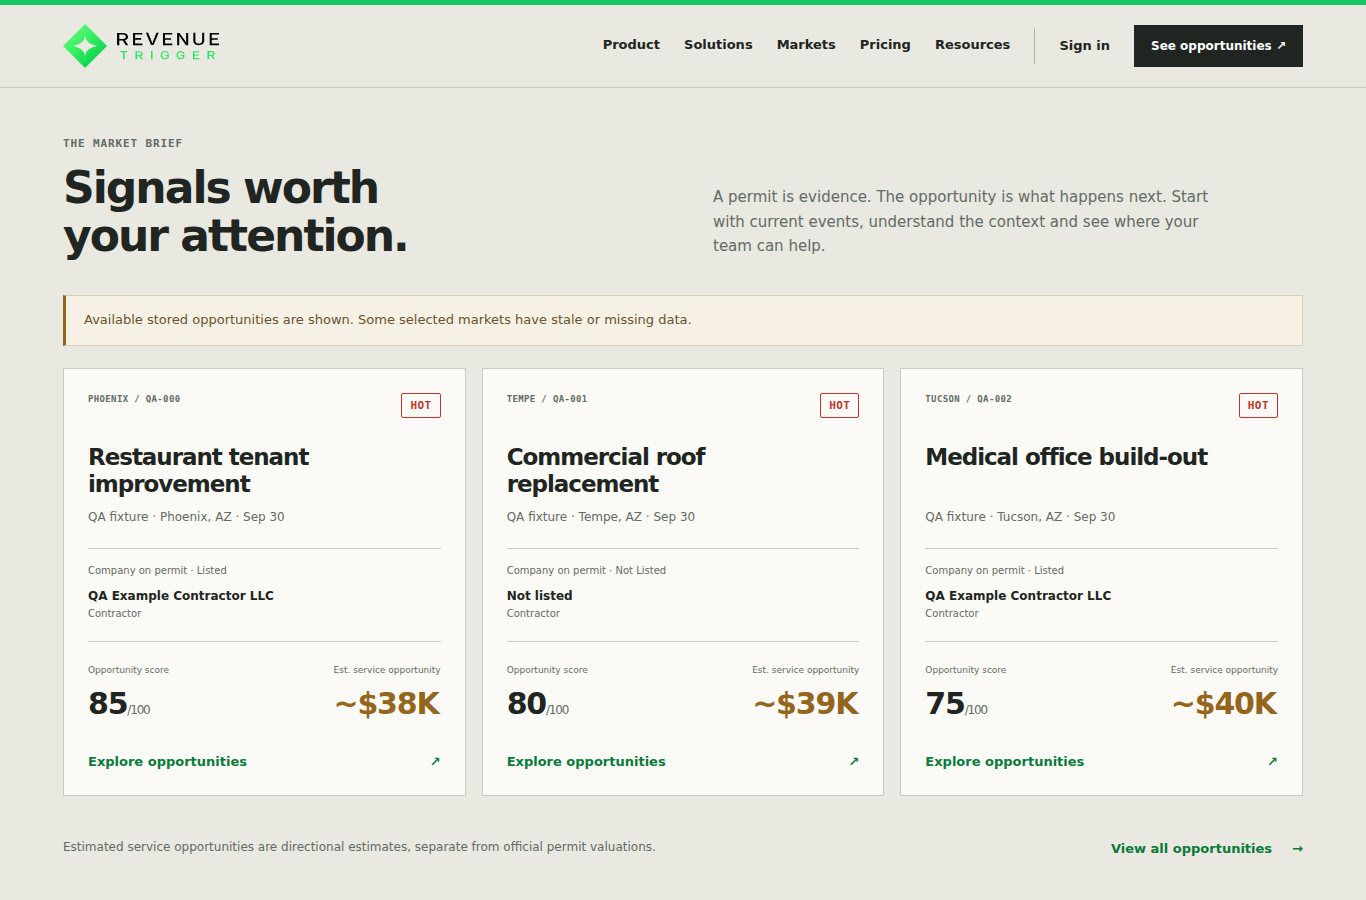
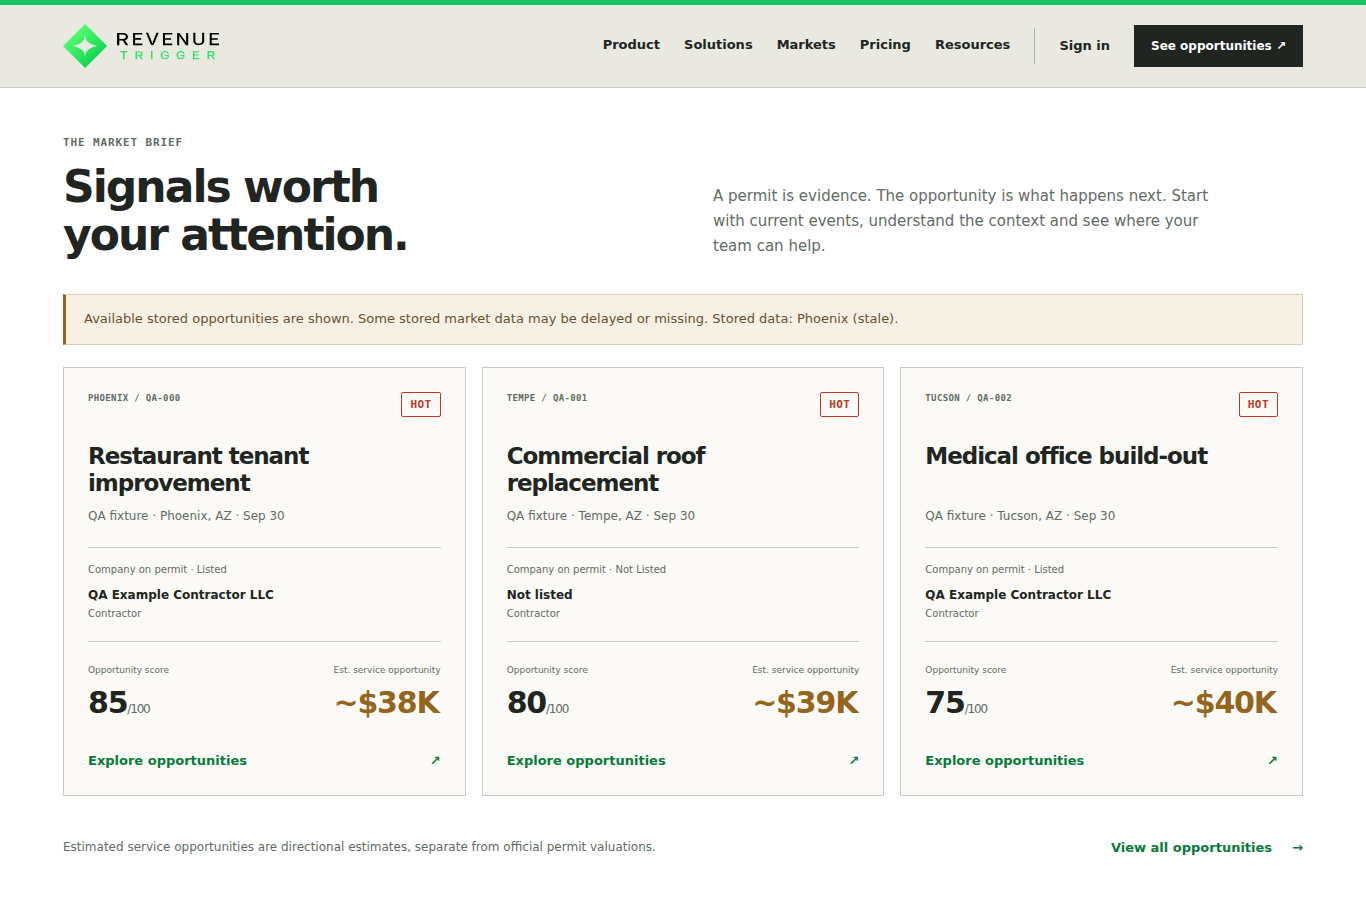
Align frontend with finalized Core v1 feed contract

diff --git a/frontend/public/assets/rt-ui.js b/frontend/public/assets/rt-ui.js
@@ -23,13 +23,22 @@ window.RTUI=(()=>{
   if(!metrics.length&&!ai.whyNow&&!ai.nextBestAction?.action)return '';
   return `<div class="rt-decision-metrics">${metrics.map(([k,v])=>`<div><small>${esc(k)}</small><strong>${esc(v)}</strong></div>`).join('')}</div>${ai.whyNow?`<div class="rt-reason"><small>Why now</small><p>${esc(ai.whyNow)}</p></div>`:''}${ai.nextBestAction?.action?`<div class="rt-reason"><small>Next best action</small><p>${esc(ai.nextBestAction.action)}</p>${ai.nextBestAction.reason?`<p class="rt-muted">${esc(ai.nextBestAction.reason)}</p>`:''}</div>`:''}`;
  }
- function feedState(data){
+ function feedState(data,status=200){
   const valid=['fresh','stale','partial','empty','unavailable'];
-  const state=data?.ok===false||(['fresh','stale','partial'].includes(data?.state)&&!Array.isArray(data?.leads))?'unavailable':valid.includes(data?.state)?data.state:'unavailable';
-  const rows=['fresh','stale','partial'].includes(state)&&data?.opportunityState!=='empty'&&Array.isArray(data?.leads)?data.leads:[];
-  const label={fresh:'Stored opportunities',stale:'Stored snapshot · stale',partial:'Partial market coverage',empty:'No current opportunities',unavailable:'Feed unavailable'}[state];
-  const notice={fresh:'',stale:'Stored opportunities are shown. Updates are delayed; verify timing before acting.',partial:'Available stored opportunities are shown. Some selected markets have stale or missing data.',empty:'No stored opportunities are available for the selected markets and time window.',unavailable:'Current opportunities are temporarily unavailable. Please try again shortly.'}[state];
-  return {state,rows,label,notice:!rows.length&&['partial','stale'].includes(state)?'Some selected markets have stale or missing data. No stored opportunities are available in this window.':notice};
+  const requestError=status===400&&data?.error==='invalid_market';
+  const state=status>=400||data?.ok===false||(['fresh','stale','partial'].includes(data?.state)&&!Array.isArray(data?.leads))?'unavailable':valid.includes(data?.state)?data.state:'unavailable';
+  const rows=['fresh','stale','partial'].includes(state)&&Array.isArray(data?.leads)?data.leads:[];
+  // This array describes stored D1 freshness, never municipal source health.
+  const markets=Array.isArray(data?.freshness?.markets)?data.freshness.markets.filter(x=>x&&RTConfig.markets.includes(x.market)&&valid.includes(x.state)).map(x=>({market:x.market,state:x.state,storedCount:x.storedCount,lastStoredAt:x.lastStoredAt,latestEventAt:x.latestEventAt,ageMinutes:x.ageMinutes})):[];
+  const label=requestError?'Feed request error':{fresh:'Stored opportunities',stale:'Stored snapshot · stale',partial:'Partial market coverage',empty:'No current opportunities',unavailable:'Feed unavailable'}[state];
+  let notice=requestError?'The feed request contains an unsupported market. Check the market selection or configuration.':{fresh:'',stale:'Stored opportunities are shown. Some stored market data may be delayed; verify timing before acting.',partial:'Available stored opportunities are shown. Some stored market data may be delayed or missing.',empty:'No stored opportunities are available for the selected markets and time window.',unavailable:'Current opportunities are temporarily unavailable. Please try again shortly.'}[state];
+  if(!rows.length&&['partial','stale'].includes(state))notice='Some stored market data may be delayed or missing. No stored opportunities are available in this window.';
+  if(['partial','stale'].includes(state)&&markets.length)notice+=' Stored data: '+markets.map(x=>`${x.market} (${x.state})`).join(', ')+'.';
+  return {state,rows,label,notice,requestError,freshness:{thresholdMinutes:data?.freshness?.thresholdMinutes,markets}};
  }
- return {esc,badge,opportunityCard,triggerTimeline,decision,money,feedState};
+ async function readFeed(query){
+  try{const response=await fetch(RTConfig.apiBase+'/feed?'+query);return feedState(await response.json(),response.status)}catch{return feedState(null)}
+ }
+
+ return {esc,badge,opportunityCard,triggerTimeline,decision,money,feedState,readFeed};
 })();

diff --git a/frontend/public/assets/rt-marketing.js b/frontend/public/assets/rt-marketing.js
@@ -21,9 +21,9 @@ document.getElementById('signinModal').addEventListener('click',e=>{if(e.target.
 document.getElementById('marketList').innerHTML=RTConfig.markets.map(m=>`<span>${RTUI.esc(m)}</span>`).join('');
 async function loadMarketingSignals(){
  const {esc,badge,opportunityCard,triggerTimeline,decision,money}=RTUI;
+ let feed;
  try{
-  const d=await RTAuth.request('/feed?days=7&limit=3');
-  const feed=RTUI.feedState(d);
+  feed=await RTUI.readFeed('days=7&limit=3');
   const note=document.getElementById('homeFeedNotice');
   note.hidden=!feed.notice;note.textContent=feed.notice;note.dataset.state=feed.state;
   document.getElementById('heroState').textContent=feed.label;
@@ -38,8 +38,8 @@ async function loadMarketingSignals(){
   const rich=rows.find(x=>x.actionIntelligence&&Object.keys(x.actionIntelligence).length)||x;
   document.getElementById('decisionDemo').innerHTML=`<span class="rt-kicker">${esc(rich.market)} / ${esc(rich.permit||'Public record')}</span><h3>${esc(RTFormat.displayEventTitle(rich))}</h3>${decision(rich)||'<p class="rt-unavailable">Additional intelligence is not published for this record.</p>'}${triggerTimeline(rich)}`;
  }catch(e){
-  const text=e.message.startsWith('No current')?e.message:'Current opportunities are temporarily unavailable. Please try the opportunity feed again shortly.';
-  if(!e.message.startsWith('No current')){document.getElementById('heroState').textContent='Feed unavailable';const note=document.getElementById('homeFeedNotice');note.hidden=false;note.textContent=RTUI.feedState(null).notice;note.dataset.state='unavailable';}
+  const text=feed?.requestError?feed.notice:e.message.startsWith('No current')?e.message:'Current opportunities are temporarily unavailable. Please try the opportunity feed again shortly.';
+  if(!e.message.startsWith('No current')){document.getElementById('heroState').textContent=feed?.label||'Feed unavailable';const note=document.getElementById('homeFeedNotice');note.hidden=false;note.textContent=feed?.notice||RTUI.feedState(null).notice;note.dataset.state='unavailable';}
   document.getElementById('heroSignal').innerHTML=`<p class="rt-unavailable">${esc(text)}</p><a class="rt-text-link" href="/signals">Open the opportunity feed →</a>`;
   document.getElementById('signalPreviews').innerHTML=`<p class="rt-preview-empty">${esc(text)}</p>`;
   document.getElementById('marketTicker').textContent='No current activity available to display.';

diff --git a/frontend/public/assets/rt-app.js b/frontend/public/assets/rt-app.js
@@ -268,15 +268,10 @@ async function loadPublic(){
  const selected=$('#market')?.value||'all';
  const marketParam=selected!=='all'?`&markets=${encodeURIComponent(selected)}`:'';
  const limit=selected!=='all'?200:120;
- let feed;
- try{
-  const r=await fetch(`${CONFIG.apiBase}/feed?days=7&limit=${limit}${marketParam}`);
-  if(!r.ok)throw new Error('Feed unavailable');
-  feed=RTUI.feedState(await r.json());
- }catch{feed=RTUI.feedState(null)}
+ const feed=await RTUI.readFeed(`days=7&limit=${limit}${marketParam}`);
  if(requestId!==publicFeedRequest)return;
  publicFeed=feed;leads=feed.rows;
- $('#feedStatus').textContent=feed.state==='unavailable'?'Feed unavailable · Please try again':`${feed.label} • ${leads.length} ${selected==='all'?'Arizona':selected} permit signals`;
+ $('#feedStatus').textContent=feed.state==='unavailable'?feed.label:`${feed.label} • ${leads.length} ${selected==='all'?'Arizona':selected} permit signals`;
  const status=$('#feedStatus').closest('.status');
  status?.classList.remove('source-degraded');status?.setAttribute('data-feed-state',feed.state);
  const note=$('#publicFeedNotice');note.hidden=!feed.notice;note.textContent=feed.notice;note.dataset.state=feed.state;

diff --git a/docs/redesign/REVIEW.md b/docs/redesign/REVIEW.md
@@ -10,6 +10,42 @@
 - Backend changes: **none**
 - D1, adapters, scoring, temperature, auth contracts, billing contracts, cron, DFW, and Cloudflare configuration: **unchanged**
 
+## Finalized Core v1 feed contract — current integration review
+
+**Not deployed or merged.** This entry supersedes earlier `/feed` contract assumptions. Core reference: branch `core/read-only-feed-v1`, commit `50dfbd8d53f69e7fadf07ef2fd8192f9b9ad6ac5`, based on `db5260fe16e0b9f81b36df71a50797a8b69cc7f3`. Work inspected that exact Worker source through GitHub without copying or modifying backend files. Core reports 20/20 backend checks; Work did not independently rerun those backend checks. The subsequently attached `feed-contract (1).md` is byte-identical to the contract inside `RevenueTrigger-Core-Feed-Handoff-50dfbd8 (1).zip`; its backend patch and 20/20 test report were inspected without applying the patch. These attachments contain no genuine Arizona record fixtures.
+
+Work continued from `6575b48`, preserving the approved visual commits after `cf08fa5`: section rearrangement, deep-green Decision Intelligence, standalone Early Pipeline/Competitor Intelligence, highlighted Hunter pricing, cement Early Pipeline, white Competitor Intelligence/Markets/Market Brief, and black Built for Your Trade. Homepage HTML and theme CSS were unchanged in this contract alignment.
+
+### Contract alignment
+
+- Homepage: `GET /api/feed?days=7&limit=3`. Signed-out Signals: `/api/feed?days=7&limit=120` or a selected Arizona market with limit 200. These public fetches carry no bearer token.
+- A shared frontend feed reader retains HTTP status when interpreting the response. HTTP 400 `invalid_market` produces **Feed request error** with unsupported-market/configuration guidance. It is never represented as an empty market. HTTP 503 `stored_feed_unavailable`, malformed responses and failed network requests produce an unavailable state.
+- Top-level `state` is authoritative. `fresh` renders normally; `stale` and `partial` retain returned opportunities with restrained stored-data notices; `empty` and `unavailable` never insert sample records. The old optional `opportunityState` field is no longer consulted.
+- `freshness.markets` is parsed as an array containing `market`, `state`, `storedCount`, `lastStoredAt`, `latestEventAt` and `ageMinutes`; nullable values are preserved. `freshness.thresholdMinutes` is read from the envelope (Core v1 uses 180). Object-keyed legacy metadata is ignored safely. Metadata never overrides the top-level state.
+- Freshness notices say “Some stored market data may be delayed,” with the available per-market stored state. They do not claim a municipality is down or infer upstream source health.
+- Signed-in `loadDashboard()` is byte-for-byte unchanged from the preceding Work commit. Existing auth/billing callbacks, Saved, Pipeline, filters/sorting, preferences, 75+/80+ options, CSV export and competitor flows remain intact.
+
+### Validation and artifacts
+
+All runs used synthetic/local interception; no production API request, real email, account mutation or Stripe transaction was performed.
+
+- **41/41 existing regression checks passed**, including responsive layouts at 390, 430, 768, 1366 and 1920px across homepage, Signals, Competitors and Sources.
+- **31/31 feed checks passed**: five data states on desktop/mobile for both consumers, exact HTTP 503 payload, invalid-market HTTP 400 on both pages, array/null parsing, safe handling of object-shaped legacy metadata, network failure without fallback, partial empty data, dashboard continuity, market request ordering and long/sparse records.
+- **8/8 account preference cases passed**: 40/60/75/80 load, save and reload at desktop/mobile widths. The previously temporary check is now reproducible as `tests/preferences.cjs`.
+- `docs/redesign/test-results.json` and `feed-test-results.json` hold the refreshed regression/feed results. Homepage and Signals full-page screenshots are refreshed; `screenshots/feed-states/` contains stale/partial/empty/unavailable examples and two explicit invalid-market examples. Screenshots contain synthetic QA records only.
+
+### Remaining blockers
+
+1. Genuine Arizona production-shape validation, pending authorized SELECT-only D1 access and sanitized records.
+2. Coordinated Core v1/frontend integration validation in an authorized preview. Core v1 is a separate review branch and has not been merged into Work; no deployed `/feed` availability is claimed.
+3. Authorized real Resend/magic-link end-to-end validation.
+4. Stripe test-mode Checkout → callback → webhook/entitlement → Portal validation.
+5. Actual Cloudflare preview clean-route validation for Signals, Competitors and Sources.
+6. Chandler Early Pipeline genuine-data integration validation, separate from D1 fixtures.
+7. Exact Work branch publication and final visual/release review.
+
+Backend, `/leads`, scoring, Arizona adapters, DFW, D1/schema and Cloudflare security are untouched. Nothing deployed or merged; branch remains local.
+
 ## Market Brief palette update
 
 Changed only the Market Brief (`#opportunities`) section background to white. Card styling, layout, content and data behavior remain unchanged. Desktop/mobile previews refreshed using intercepted synthetic/local data. No production requests, merge or deployment.
